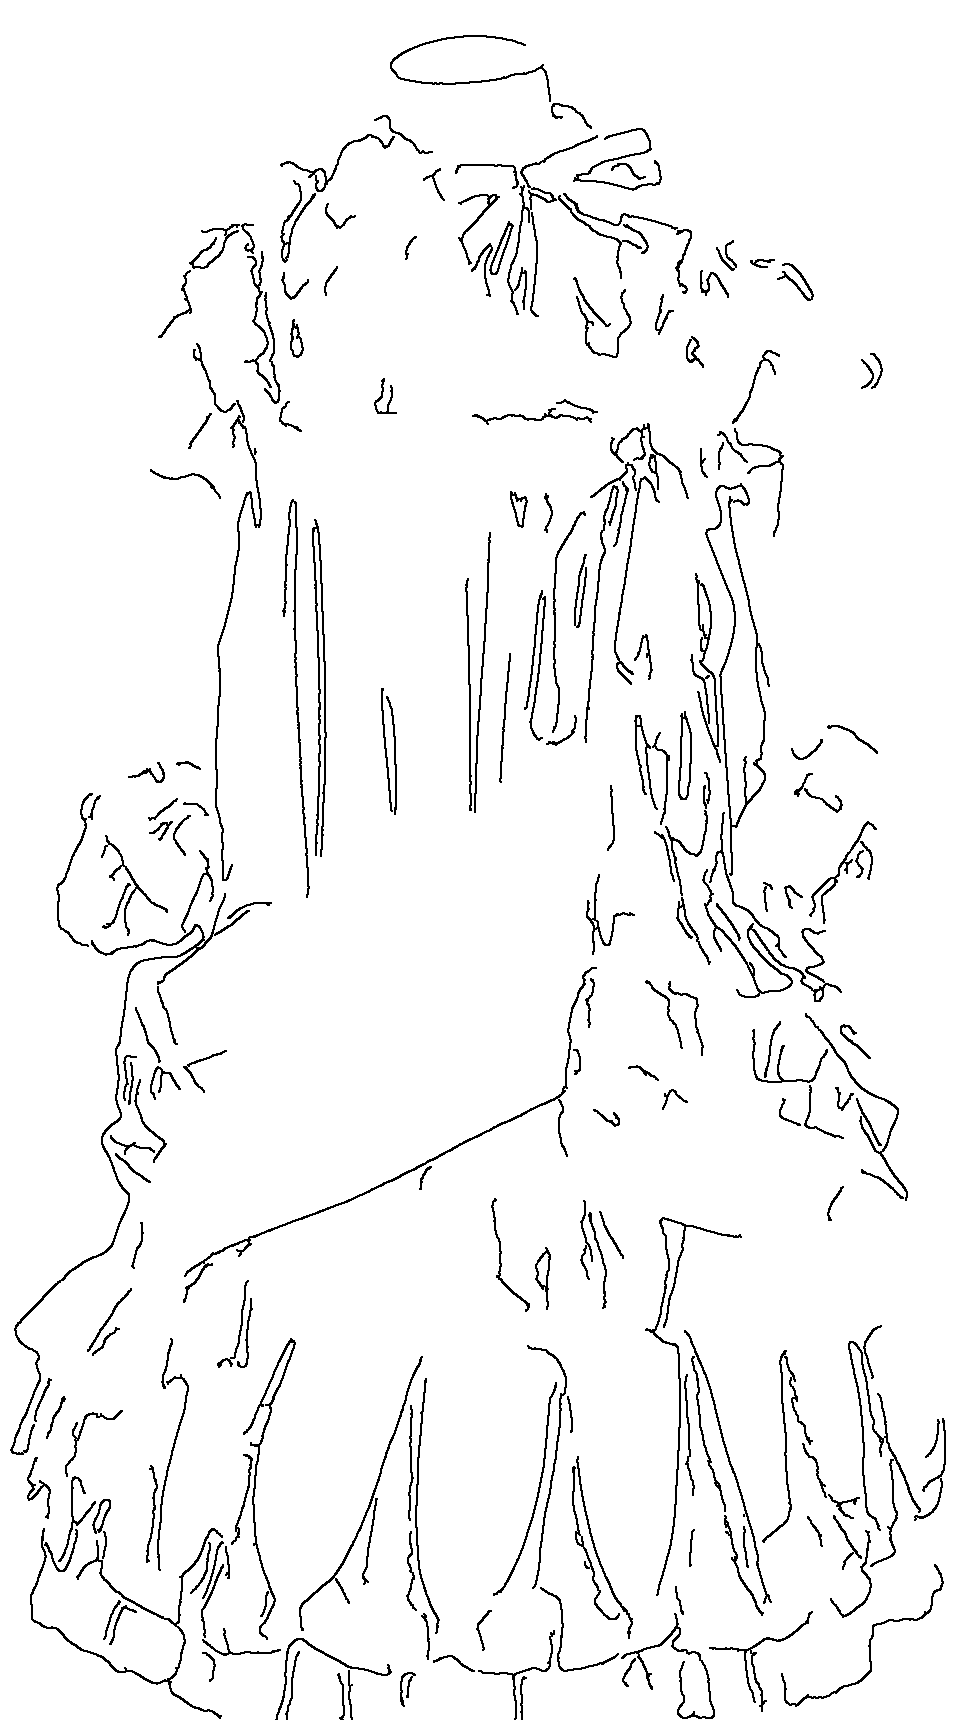
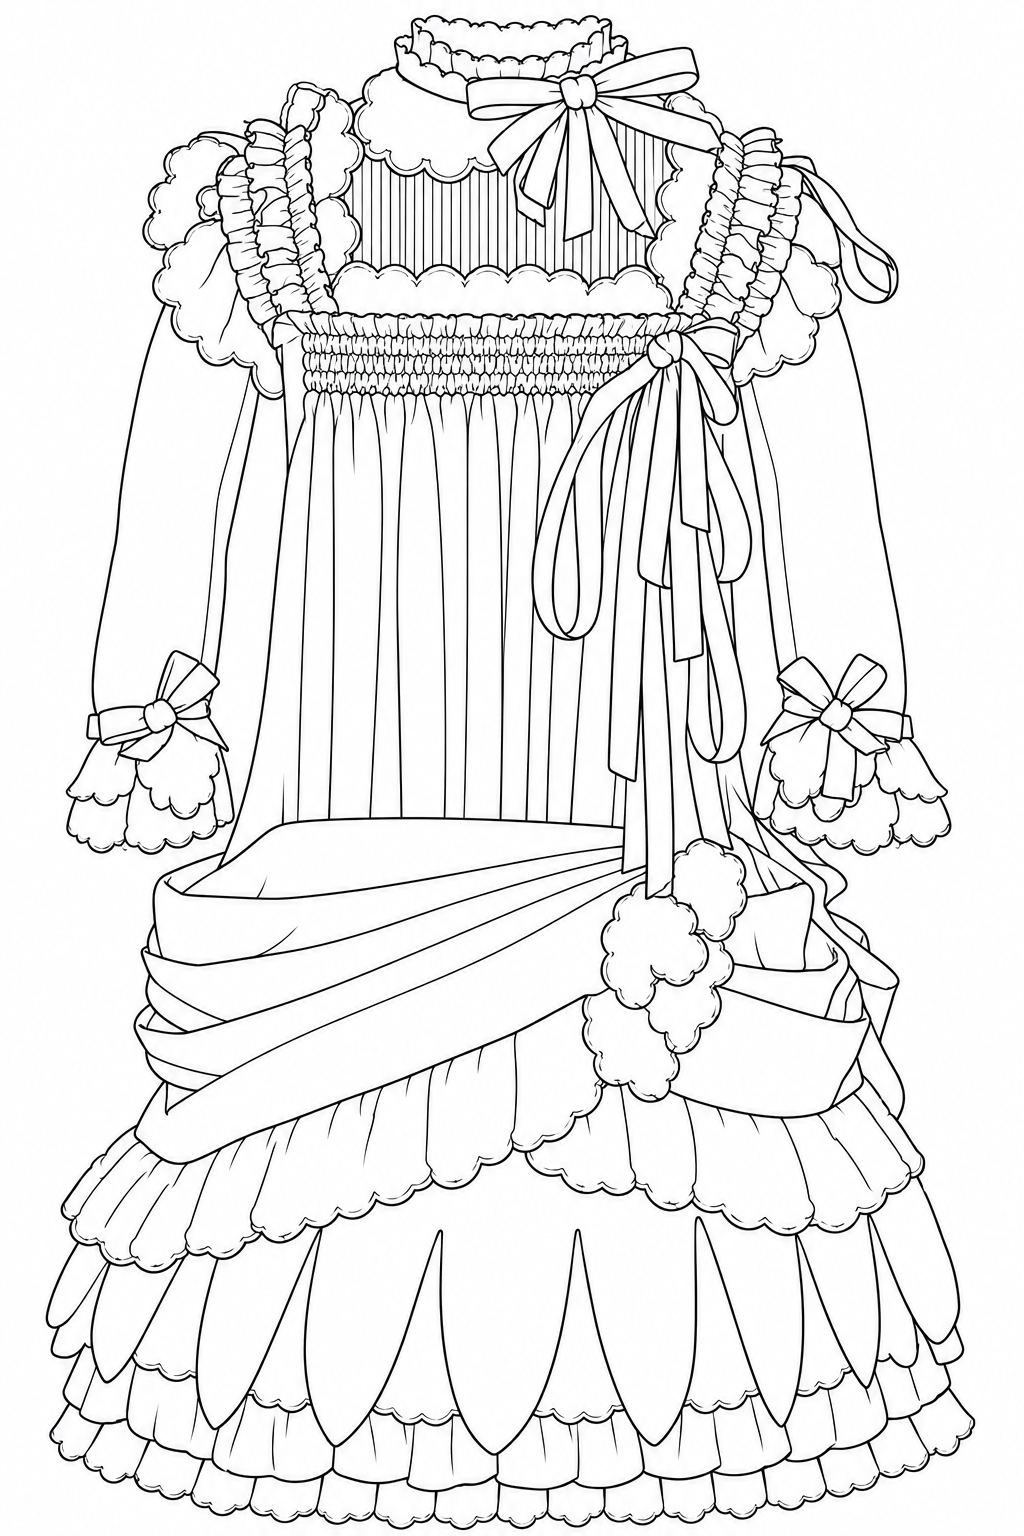
Run and evaluate C01; design C06-C10
- C01 plain satin (Met 157319): traced drawing, three samples, judged.
  Construction near-perfect, colour within dE 2.1-3.9, satin sheen lost
- pattern_scale is n/a for plain fabrics (C01, C05)
- C06-C10 designed in the manifest: inputs, task fields and checks for
  T2 refabric, T3 colourway set, T4 recolour, T5 two-print placement
  and T6 leg-of-mutton sleeves
- fetch_met: --any-department search, skip IDs the search index lists
  but the object endpoint 404s

diff --git a/gallery/index.html b/gallery/index.html
@@ -23,7 +23,7 @@
 </header>
 <main id="main"></main>
 <script>
-const D = {"cases": [{"id": "C02", "task": "T1", "item": "woman's two-piece day dress: bodice with a crossover draped front and long sleeves, waistband, draped overskirt and pleated underskirt, all in the swatch fabric, with a small purple silk bow at the neck", "material": "stripe", "inputs": ["../data/cases/C02/inputs/line_drawing.png", "../data/cases/C02/inputs/fabric.jpg"], "truth": ["../data/cases/C02/ground_truth/photo.jpg"], "outputs": [{"src": "../results/gpt-image-2.6-sunburst/C02/A_r1_s1.png", "label": "gpt-image-2.6-sunburst / A_r1_s1"}, {"src": "../results/gpt-image-2.6-sunburst/C02/A_r1_s2.png", "label": "gpt-image-2.6-sunburst / A_r1_s2"}, {"src": "../results/gpt-image-2.6-sunburst/C02/A_r1_s3.png", "label": "gpt-image-2.6-sunburst / A_r1_s3"}]}, {"id": "C03", "task": "T1", "item": "child's two-piece suit: jacket and pleated skirt in the swatch fabric with black velvet ribbon lattice trims, worn over a white cotton blouse with eyelet lace collar, jabot and cuffs, and white bloomers", "material": "check / plaid", "inputs": ["../data/cases/C03/inputs/line_drawing.png", "../data/cases/C03/inputs/fabric.jpg"], "truth": ["../data/cases/C03/ground_truth/photo.jpg"], "outputs": [{"src": "../results/gpt-image-2.6-sunburst/C03/A_r1_s1.png", "label": "gpt-image-2.6-sunburst / A_r1_s1"}, {"src": "../results/gpt-image-2.6-sunburst/C03/A_r1_s2.png", "label": "gpt-image-2.6-sunburst / A_r1_s2"}, {"src": "../results/gpt-image-2.6-sunburst/C03/A_r1_s3.png", "label": "gpt-image-2.6-sunburst / A_r1_s3"}]}, {"id": "C04", "task": "T1", "item": "short-sleeved knitted jacket with a stand collar, centre-front button closure, ribbed cuffs and hem, and gold patterned bands where drawn, in the swatch's knit", "material": "knit", "inputs": ["../data/cases/C04/inputs/line_drawing.png", "../data/cases/C04/inputs/fabric.jpg"], "truth": ["../data/cases/C04/ground_truth/photo.jpg"], "outputs": [{"src": "../results/gpt-image-2.6-sunburst/C04/A_r1_s1.png", "label": "gpt-image-2.6-sunburst / A_r1_s1"}, {"src": "../results/gpt-image-2.6-sunburst/C04/A_r1_s2.png", "label": "gpt-image-2.6-sunburst / A_r1_s2"}, {"src": "../results/gpt-image-2.6-sunburst/C04/A_r1_s3.png", "label": "gpt-image-2.6-sunburst / A_r1_s3"}]}, {"id": "C05", "task": "T1", "item": "man's double-breasted frock coat with notched lapels, a fitted waist seam, a full skirt and covered buttons, in the swatch fabric", "material": "wool (dark, fine texture)", "inputs": ["../data/cases/C05/inputs/line_drawing.png", "../data/cases/C05/inputs/fabric.jpg"], "truth": ["../data/cases/C05/ground_truth/photo.jpg"], "outputs": [{"src": "../results/gpt-image-2.6-sunburst/C05/A_r1_s1.png", "label": "gpt-image-2.6-sunburst / A_r1_s1"}, {"src": "../results/gpt-image-2.6-sunburst/C05/A_r1_s2.png", "label": "gpt-image-2.6-sunburst / A_r1_s2"}, {"src": "../results/gpt-image-2.6-sunburst/C05/A_r1_s3.png", "label": "gpt-image-2.6-sunburst / A_r1_s3"}]}], "axes": ["silhouette", "fabric_pattern", "pattern_scale", "colour", "texture", "construction", "usable_for_planning"]};
+const D = {"cases": [{"id": "C01", "task": "T1", "item": "girl's dress with a smocked and pin-tucked yoke, long sleeves with lace cuffs, a draped sash at the hip, petal-cut tiers and lace flounces at the hem, with satin ribbon bows, all in the swatch fabric with cream lace", "material": "plain satin", "inputs": ["../data/cases/C01/inputs/line_drawing.png", "../data/cases/C01/inputs/fabric.jpg"], "truth": ["../data/cases/C01/ground_truth/photo.jpg"], "outputs": [{"src": "../results/gpt-image-2.6-sunburst/C01/A_r1_s1.png", "label": "gpt-image-2.6-sunburst / A_r1_s1"}, {"src": "../results/gpt-image-2.6-sunburst/C01/A_r1_s2.png", "label": "gpt-image-2.6-sunburst / A_r1_s2"}, {"src": "../results/gpt-image-2.6-sunburst/C01/A_r1_s3.png", "label": "gpt-image-2.6-sunburst / A_r1_s3"}]}, {"id": "C02", "task": "T1", "item": "woman's two-piece day dress: bodice with a crossover draped front and long sleeves, waistband, draped overskirt and pleated underskirt, all in the swatch fabric, with a small purple silk bow at the neck", "material": "stripe", "inputs": ["../data/cases/C02/inputs/line_drawing.png", "../data/cases/C02/inputs/fabric.jpg"], "truth": ["../data/cases/C02/ground_truth/photo.jpg"], "outputs": [{"src": "../results/gpt-image-2.6-sunburst/C02/A_r1_s1.png", "label": "gpt-image-2.6-sunburst / A_r1_s1"}, {"src": "../results/gpt-image-2.6-sunburst/C02/A_r1_s2.png", "label": "gpt-image-2.6-sunburst / A_r1_s2"}, {"src": "../results/gpt-image-2.6-sunburst/C02/A_r1_s3.png", "label": "gpt-image-2.6-sunburst / A_r1_s3"}]}, {"id": "C03", "task": "T1", "item": "child's two-piece suit: jacket and pleated skirt in the swatch fabric with black velvet ribbon lattice trims, worn over a white cotton blouse with eyelet lace collar, jabot and cuffs, and white bloomers", "material": "check / plaid", "inputs": ["../data/cases/C03/inputs/line_drawing.png", "../data/cases/C03/inputs/fabric.jpg"], "truth": ["../data/cases/C03/ground_truth/photo.jpg"], "outputs": [{"src": "../results/gpt-image-2.6-sunburst/C03/A_r1_s1.png", "label": "gpt-image-2.6-sunburst / A_r1_s1"}, {"src": "../results/gpt-image-2.6-sunburst/C03/A_r1_s2.png", "label": "gpt-image-2.6-sunburst / A_r1_s2"}, {"src": "../results/gpt-image-2.6-sunburst/C03/A_r1_s3.png", "label": "gpt-image-2.6-sunburst / A_r1_s3"}]}, {"id": "C04", "task": "T1", "item": "short-sleeved knitted jacket with a stand collar, centre-front button closure, ribbed cuffs and hem, and gold patterned bands where drawn, in the swatch's knit", "material": "knit", "inputs": ["../data/cases/C04/inputs/line_drawing.png", "../data/cases/C04/inputs/fabric.jpg"], "truth": ["../data/cases/C04/ground_truth/photo.jpg"], "outputs": [{"src": "../results/gpt-image-2.6-sunburst/C04/A_r1_s1.png", "label": "gpt-image-2.6-sunburst / A_r1_s1"}, {"src": "../results/gpt-image-2.6-sunburst/C04/A_r1_s2.png", "label": "gpt-image-2.6-sunburst / A_r1_s2"}, {"src": "../results/gpt-image-2.6-sunburst/C04/A_r1_s3.png", "label": "gpt-image-2.6-sunburst / A_r1_s3"}]}, {"id": "C05", "task": "T1", "item": "man's double-breasted frock coat with notched lapels, a fitted waist seam, a full skirt and covered buttons, in the swatch fabric", "material": "wool (dark, fine texture)", "inputs": ["../data/cases/C05/inputs/line_drawing.png", "../data/cases/C05/inputs/fabric.jpg"], "truth": ["../data/cases/C05/ground_truth/photo.jpg"], "outputs": [{"src": "../results/gpt-image-2.6-sunburst/C05/A_r1_s1.png", "label": "gpt-image-2.6-sunburst / A_r1_s1"}, {"src": "../results/gpt-image-2.6-sunburst/C05/A_r1_s2.png", "label": "gpt-image-2.6-sunburst / A_r1_s2"}, {"src": "../results/gpt-image-2.6-sunburst/C05/A_r1_s3.png", "label": "gpt-image-2.6-sunburst / A_r1_s3"}]}], "axes": ["silhouette", "fabric_pattern", "pattern_scale", "colour", "texture", "construction", "usable_for_planning"]};
 const KEY = "apparel-eval-scores";
 let scores = {};
 try { scores = JSON.parse(localStorage.getItem(KEY) || "{}"); } catch {}

diff --git a/scripts/fetch_met.py b/scripts/fetch_met.py
@@ -37,25 +37,34 @@ def get_json(url, params=None, tries=4):
 
 
 def obj(object_id):
+    """The object record, or None when the search index lists an ID the object endpoint 404s."""
+    r = requests.get(f"{API}/v1/objects/{object_id}", headers=UA, timeout=30)
+    if r.status_code == 404:
+        return None
     return get_json(f"{API}/v1/objects/{object_id}")
 
 
-def search(q, limit):
-    res = get_json(f"{API}/v1.1/search", {
-        "departmentId": COSTUME_DEPT, "hasImages": "true", "isPublicDomain": "true",
-        "q": q, "limit": limit,
-    })
+def search(q, limit, any_department=False):
+    params = {"hasImages": "true", "isPublicDomain": "true", "q": q, "limit": limit}
+    if not any_department:
+        params["departmentId"] = COSTUME_DEPT
+    res = get_json(f"{API}/v1.1/search", params)
     print(f"{res['total']} hits for {q!r}; checking first {len(res['objectIDs'])}")
     for oid in res["objectIDs"]:
         o = obj(oid)
-        pd = "PD " if o["isPublicDomain"] and o["primaryImage"] else "-- "
-        print(f"{pd}{oid:>7}  {o['objectDate'][:16]:16}  {o['title'][:40]:40}  "
+        if o is None:
+            print(f"--  {oid:>7}  (listed by search, 404 from the object endpoint)")
+            continue
+        pd ="PD " if o["isPublicDomain"] and o["primaryImage"] else "-- "
+        print(f"{pd}{oid:>7}  {o['department'][:20]:20}  {o['objectDate'][:16]:16}  {o['title'][:40]:40}  "
               f"+{len(o['additionalImages'])} imgs  {o['objectURL']}")
         time.sleep(0.3)
 
 
 def get(case_id, object_id, primary_only, image=None):
     o = obj(object_id)
+    if o is None:
+        sys.exit(f"object {object_id} not found")
     if not o["isPublicDomain"] or not o["primaryImage"]:
         sys.exit(f"object {object_id} is not public domain or has no image; refusing")
     d = case_dir(case_id) / "source"
@@ -96,13 +105,14 @@ def main():
     s = sub.add_parser("search")
     s.add_argument("q")
     s.add_argument("--limit", type=int, default=20)
+    s.add_argument("--any-department", action="store_true", help="search beyond the Costume Institute")
     g = sub.add_parser("get")
     g.add_argument("case")
     g.add_argument("object_id", type=int)
     g.add_argument("--primary-only", action="store_true", help="skip the additional views")
     g.add_argument("--image", help="only this view, by the filename the Met serves it under")
     a = ap.parse_args()
-    search(a.q, a.limit) if a.cmd == "search" else get(a.case, a.object_id, a.primary_only, a.image)
+    search(a.q, a.limit, a.any_department) if a.cmd == "search" else get(a.case, a.object_id, a.primary_only, a.image)
 
 
 if __name__ == "__main__":

diff --git a/scripts/report.py b/scripts/report.py
@@ -114,7 +114,7 @@ def main():
           "| Samples | 3 per case x model x variant. The API has no seed, so samples are independent draws |",
           "| Variant A | line drawing + fabric swatch → product photo |",
           "| Auto-checks | CIEDE2000 between the swatch's 4 dominant colours and the garment's; pattern repeat count by autocorrelation along the case's repeat axis, compared with the ground truth's |",
-          "| Scoring | 1-5 on " + ", ".join(AXES) + " |", ""]
+          "| Scoring | 1-5 on " + ", ".join(AXES) + "; pattern_scale is n/a for plain fabrics |", ""]
     notes = [c for c in cases if c.get("notes")]
     if notes:
         L += ["Input notes that affect the results:", ""] + [f"- **{c['id']}**: {c['notes']}" for c in notes] + [""]
@@ -143,8 +143,9 @@ def main():
         if sc:
             L += ["| Image | " + " | ".join(a.replace("_", " ") for a in AXES) + " |", "|---" * (len(AXES) + 1) + "|"]
             for f, s in sc.items():
-                L.append(f"| {f.split('/')[-1]} | " + " | ".join(str(s[a]) for a in AXES) + " |")
-            L.append("| **median** | " + " | ".join(str(statistics.median(s[a] for s in sc.values())) for a in AXES) + " |")
+                L.append(f"| {f.split('/')[-1]} | " + " | ".join("n/a" if s[a] is None else str(s[a]) for a in AXES) + " |")
+            med = lambda a: [s[a] for s in sc.values() if s[a] is not None]
+            L.append("| **median** | " + " | ".join(str(statistics.median(med(a))) if med(a) else "n/a" for a in AXES) + " |")
             L += [""]
 
     L += ["## 5. Cost and latency", "",

diff --git a/REPORT.md b/REPORT.md
@@ -1,12 +1,13 @@
 # Apparel image eval: results
 
-Cases evaluated: C02, C03, C04, C05 of 10 planned. Models: `gpt-image-2.6-sunburst`. Reviewer: Claude (claude-opus-5-5), reading each output beside its inputs and the ground truth.
+Cases evaluated: C01, C02, C03, C04, C05 of 10 planned. Models: `gpt-image-2.6-sunburst`. Reviewer: Claude (claude-opus-5-5), reading each output beside its inputs and the ground truth.
 
 ## 1. Summary
 
-- Shape is the strongest result. In all four cases (C02-C05) every sample follows the line drawing's silhouette and construction: collars, lapels, buttons, drapes, pleats and trims land where they are drawn. Median construction score is 4-5.
-- Colour is reliable when it comes from the swatch: ΔE 2.6-3.9 against the swatch for the plaid and the stripe, and matching L* for the near-black wool.
+- Shape is the strongest result. In all five cases every sample follows the line drawing's silhouette and construction: collars, lapels, buttons, smocking, drapes, pleats and trims land where they are drawn. Median construction score is 4-5.
+- Colour is reliable when it comes from the swatch: ΔE 2.1-3.9 against the swatch for the satin, the plaid and the stripe, and matching L* for the near-black wool.
 - Pattern scale is the main failure. The plaid is drawn 10-25% too large and the stripe about twice too wide, even though each swatch was cut from the garment being rebuilt.
+- Material character transfers only when the swatch shows it plainly. The plaid's twill and the knit's stitch came through; the satin's sheen did not, and the satin dress came out matte.
 - Colour given only in text is unreliable. The knit's gold motifs came out gold in one sample of three, and a wrong word in the description (white bloomers) went into every sample.
 - Where the drawing is silent, the model chooses: stripe direction on sleeves and bodice, and pleats in a skirt that has none. A drawing that leaves something out is not a neutral input.
 - The swatch is copied literally, defects included: stains on the stripe swatch reappeared on one output's skirt.
@@ -18,6 +19,7 @@ Each case starts from a public-domain museum photo of a real garment. The model 
 
 | Case | Task | Garment | Fabric | Ground truth | Source |
 |---|---|---|---|---|---|
+| C01 | T1 | girl's dress with a smocked and pin-tucked yoke, long sleeves with lace cuffs, a draped sash at the hip, petal-cut tiers and lace flounces at the hem, with satin ribbon bows, all in the swatch fabric with cream lace | plain satin | ground_truth/photo.jpg | The Met 157319 (Dress, ca. 1885, silk/cotton, 2009.300.2489a, b) |
 | C02 | T1 | woman's two-piece day dress: bodice with a crossover draped front and long sleeves, waistband, draped overskirt and pleated underskirt, all in the swatch fabric, with a small purple silk bow at the neck | stripe | ground_truth/photo.jpg | The Met 157306 (Dress, 1885-88, cotton/silk, 2009.300.2477a, b) |
 | C03 | T1 | child's two-piece suit: jacket and pleated skirt in the swatch fabric with black velvet ribbon lattice trims, worn over a white cotton blouse with eyelet lace collar, jabot and cuffs, and white bloomers | check / plaid | ground_truth/photo.jpg | The Met 159177 (Suit, ca. 1860, wool/cotton/silk, 2009.300.625a-c). The same photo also shows blouse 159178 (28.220), also public domain. |
 | C04 | T1 | short-sleeved knitted jacket with a stand collar, centre-front button closure, ribbed cuffs and hem, and gold patterned bands where drawn, in the swatch's knit | knit | ground_truth/photo.jpg | The Met 84229 (Sweater, late 17th century, silk, 14.134.18) |
@@ -36,10 +38,11 @@ Licences, authors and derivations for every file are in [data/SOURCES.csv](data/
 | Samples | 3 per case x model x variant. The API has no seed, so samples are independent draws |
 | Variant A | line drawing + fabric swatch → product photo |
 | Auto-checks | CIEDE2000 between the swatch's 4 dominant colours and the garment's; pattern repeat count by autocorrelation along the case's repeat axis, compared with the ground truth's |
-| Scoring | 1-5 on silhouette, fabric_pattern, pattern_scale, colour, texture, construction, usable_for_planning |
+| Scoring | 1-5 on silhouette, fabric_pattern, pattern_scale, colour, texture, construction, usable_for_planning; pattern_scale is n/a for plain fabrics |
 
 Input notes that affect the results:
 
+- **C01**: Plain ivory silk satin; the only flat area is the upper sleeve, so the swatch is small. Construction is heavy (smocking, lace, petal tiers). Line drawing traced by the image model from the ground-truth photo (synthetic).
 - **C02**: Stripes run on the bias in the bodice and overskirt and horizontally on the underskirt; the swatch is cut from the underskirt. Line drawing traced by the image model from the ground-truth photo (synthetic).
 - **C03**: Line drawing traced by the image model from the ground-truth photo (synthetic). Swatch crop has one pleat fold down the middle that shifts the pattern; no flat area holds a full repeat. Round 1 item text wrongly says white bloomers; the bloomers in the ground truth are the plaid fabric.
 - **C04**: Photographed flat. The swatch is the plain textured knit; the gold bands are described in text and drawn, not given as a swatch. Line drawing traced by the image model from the ground-truth photo (synthetic). The traced drawing straightens the real V-shaped front hem and makes the body boxier.
@@ -48,6 +51,28 @@ Input notes that affect the results:
 ## 4. Results by case
 
 Dashed grey frame = input, no frame = output, blue frame = ground truth.
+
+### C01 · T1 · plain satin
+
+![C01](report/figures/C01.jpg)
+
+**What worked**
+
+- Construction matches the drawing in every sample: ruffled stand collar, pin-tucked yoke, smocked band, ribbon bows at the neck, shoulder and cuffs, the hip sash with its rosette, petal-cut tiers and hem flounces.
+- Colour matches the swatch: median garment colour is ΔE 2.1-3.9 from it.
+
+**Issues**
+
+- The satin's sheen is lost. The dress body reads as a matte wool or brushed cotton while the ribbons stay glossy, so the model did not take the material from a small, low-contrast swatch.
+- The lace is drawn as self-fabric scallops (sample 1) or white eyelet (samples 2 and 3) instead of a separate cream lace, although the description names it.
+- The sash is drawn symmetrical and the skirt fuller than the original, where the sash crosses the hip on a diagonal.
+
+| Image | silhouette | fabric pattern | pattern scale | colour | texture | construction | usable for planning |
+|---|---|---|---|---|---|---|---|
+| A_r1_s1.png | 5 | 3 | n/a | 4 | 2 | 5 | 3 |
+| A_r1_s2.png | 5 | 3 | n/a | 4 | 2 | 5 | 3 |
+| A_r1_s3.png | 5 | 3 | n/a | 4 | 2 | 5 | 3 |
+| **median** | 5 | 3 | n/a | 4 | 2 | 5 | 3 |
 
 ### C02 · T1 · stripe
 
@@ -152,10 +177,10 @@ Dashed grey frame = input, no frame = output, blue frame = ground truth.
 
 | Image | silhouette | fabric pattern | pattern scale | colour | texture | construction | usable for planning |
 |---|---|---|---|---|---|---|---|
-| A_r1_s1.png | 5 | 4 | 4 | 5 | 3 | 5 | 4 |
-| A_r1_s2.png | 5 | 4 | 4 | 5 | 3 | 5 | 4 |
-| A_r1_s3.png | 5 | 4 | 4 | 5 | 3 | 5 | 4 |
-| **median** | 5 | 4 | 4 | 5 | 3 | 5 | 4 |
+| A_r1_s1.png | 5 | 4 | n/a | 5 | 3 | 5 | 4 |
+| A_r1_s2.png | 5 | 4 | n/a | 5 | 3 | 5 | 4 |
+| A_r1_s3.png | 5 | 4 | n/a | 5 | 3 | 5 | 4 |
+| **median** | 5 | 4 | n/a | 5 | 3 | 5 | 4 |
 
 ## 5. Cost and latency
 
@@ -163,7 +188,7 @@ Cost per call is computed from the response's `usage` tokens at standard-tier pr
 
 | Step | Model | Quality, size | Calls | Mean cost | Mean latency | Total |
 |---|---|---|---|---|---|---|
-| drawing trace | `gpt-image-2.6-sunburst` | high, 1024x1536 | 4 | $0.0527 | 32.6s | $0.211 |
-| variant A, round 1 | `gpt-image-2.6-sunburst` | medium, 1024x1536 | 12 | $0.0516 | 20.3s | $0.619 |
+| drawing trace | `gpt-image-2.6-sunburst` | high, 1024x1536 | 5 | $0.0525 | 32.7s | $0.263 |
+| variant A, round 1 | `gpt-image-2.6-sunburst` | medium, 1024x1536 | 15 | $0.0508 | 20.2s | $0.762 |
 
-Total spent: **$0.830**. Per-call rows are in [results/log.csv](results/log.csv).
+Total spent: **$1.025**. Per-call rows are in [results/log.csv](results/log.csv).
